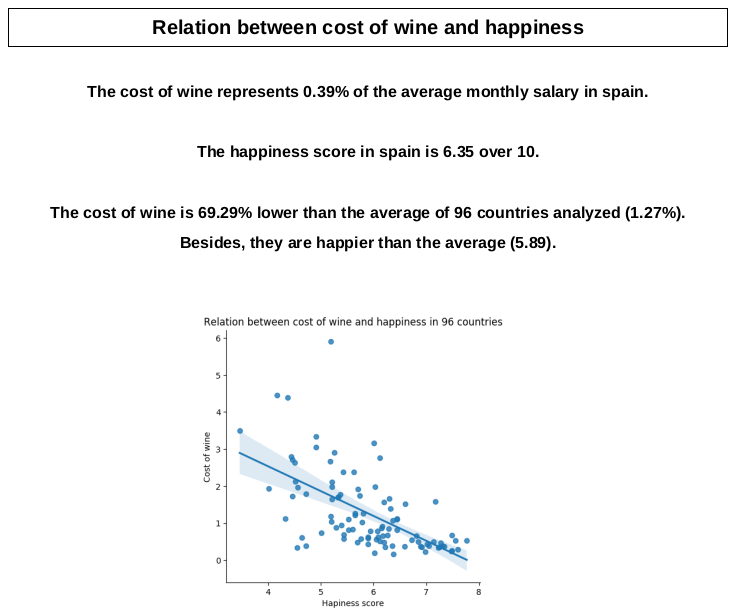
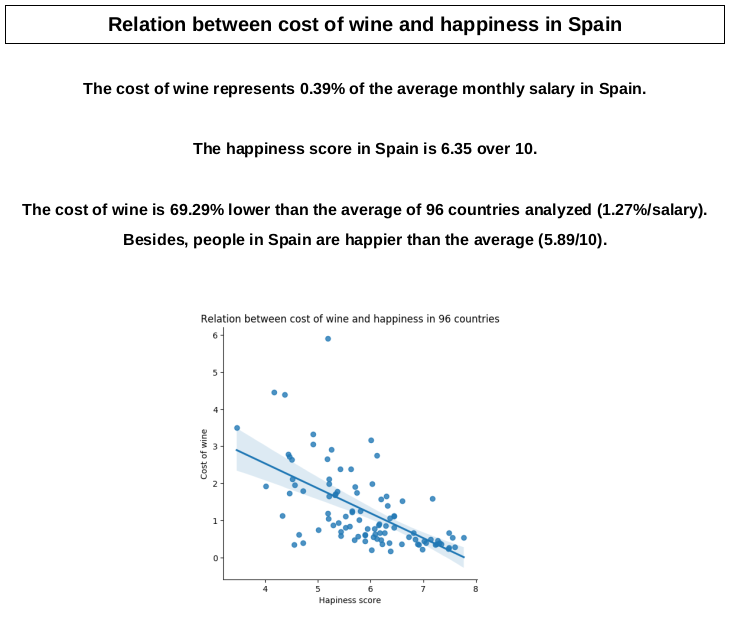
few changes and improvements

diff --git a/src/analysis.py b/src/analysis.py
@@ -8,16 +8,16 @@ def compare(dfinal, country, cost):
     filt = dfinal.loc[country, cost]
     mean = dfinal[[cost]].mean(axis=0)
     mean = round(mean,2)
-    result = f'\nThe cost of {cost} represents {filt[0]}% of the average monthly salary in {country}.\n'
-    result = result + f'\nThe happiness score in {country} is {filt[1]} over 10.\n'
+    result = f'\nThe cost of {cost} represents {filt[0]}% of the average monthly salary in {country.capitalize()}.\n'
+    result = result + f'\nThe happiness score in {country.capitalize()} is {filt[1]} over 10.\n'
     if (filt[0] - mean[0]) > 0 and (filt[1] - mean[1]) > 0:
-        result = result + f'\nThe cost of {cost} is {round(((abs((filt[0] - mean[0])))/mean[0])*100,2)}% higher than the average of 96 countries analyzed ({mean[0]}%).\nEven so, they are happier than the average ({mean[1]}).\n'
+        result = result + f'\nThe cost of {cost} is {round(((abs((filt[0] - mean[0])))/mean[0])*100,2)}% higher than the average of 96 countries analyzed ({mean[0]}%/salary).\nEven so, people in {country.capitalize()} are happier than the average ({mean[1]}/10).\n'
     elif (filt[0] - mean[0]) > 0 and (filt[1] - mean[1]) < 0:
-        result = result + f'\nThe cost of {cost} is {round(((abs((filt[0] - mean[0])))/mean[0])*100,2)}% higher than the average of 96 countries analyzed ({mean[0]}%).\nFurthermore, they are less happy than the average ({mean[1]}).\n'
+        result = result + f'\nThe cost of {cost} is {round(((abs((filt[0] - mean[0])))/mean[0])*100,2)}% higher than the average of 96 countries analyzed ({mean[0]}%/salary).\nFurthermore, people in {country.capitalize()} are less happy than the average ({mean[1]}/10).\n'
     elif (filt[0] - mean[0]) < 0 and (filt[1] - mean[1]) > 0:
-        result = result + f'\nThe cost of {cost} is {round(((abs((filt[0] - mean[0])))/mean[0])*100,2)}% lower than the average of 96 countries analyzed ({mean[0]}%).\nBesides, they are happier than the average ({mean[1]}).\n'
+        result = result + f'\nThe cost of {cost} is {round(((abs((filt[0] - mean[0])))/mean[0])*100,2)}% lower than the average of 96 countries analyzed ({mean[0]}%/salary).\nBesides, people in {country.capitalize()} are happier than the average ({mean[1]}/10).\n'
     elif (filt[0] - mean[0]) < 0 and (filt[1] - mean[1]) < 0:
-        result = result + f'\nThe cost of {cost} is {round(((abs((filt[0] - mean[0])))/mean[0])*100,2)}% lower than the average of 96 countries analyzed ({mean[0]}%).\nInstead, they are less happy than the average ({mean[1]}).\n'
+        result = result + f'\nThe cost of {cost} is {round(((abs((filt[0] - mean[0])))/mean[0])*100,2)}% lower than the average of 96 countries analyzed ({mean[0]}%/salary).\nInstead, people in {country.capitalize()} are less happy than the average ({mean[1]}/10).\n'
     return result
 
 def scatterPlot(dfinal, cost):

diff --git a/src/pdf.py b/src/pdf.py
@@ -4,7 +4,7 @@ def createPDF(data, country, cost):
     pdf = FPDF('P','mm','A4')
     pdf.add_page()
     pdf.set_font('Arial', 'B', 15)
-    pdf.cell(190,10,f'Relation between cost of {cost} and happiness',1,1,'C')
+    pdf.cell(190,10,f'Relation between cost of {cost} and happiness in {country.capitalize()}',1,1,'C')
     pdf.set_font('Helvetica', 'B', 12)
     pdf.multi_cell(0, 8, txt=data, align="C")
     pdf.image('OUTPUT/graph.png', 60, 90, h=80)

diff --git a/README_apoyo.md b/README_apoyo.md
@@ -1,0 +1,37 @@
+# Shark Attacks Analysis
+
+<p align="center">
+    <img src="https://raw.githubusercontent.com/Shurlena/Project.1-SharkAttacksAnalysis/master/images/sharks.jpg" width="600">
+</p>
+
+The goal of this project is to analyze the data collected about attacks arisen around the globe by sharks. The analysis is comprehended between 1800 and 2016, looking for season and year trends as well as the countries most affected.
+
+### INPUT
+We start from Kaggle's csv, which can be find right here: https://www.kaggle.com/teajay/global-shark-attacks
+
+### OUTPUT
+After all data cleaning we have done in Shark_Attack_Analysis.ipynb, a csv copy is made for further analysis.
+
+### scr
+Here we can find a script with functions that we will need to use in Shark_Attack_Analysis.ipynb.
+
+### Shark_Attack_Analysis.ipynb
+This is the main of this project. All data cleaning and analysis is made in this notebook. Steps followed:
+
+*STEP 1: Data Inspection*
+
+Check what kind of data we have available, cleaning and analysis complexity, duplicated data, percentage of null values and data reliability.
+
+*STEP 2: Data cleaning*
+
+Once we know which data we want to keep, we proceed to make the hole data cleaning process to output a tidy csv, which will be used for further analysis.
+
+*STEP 3: Analysis and Data Visualization*
+
+The conclusions we have been able to get are:
+
+- The highest number of attacks are registered between 2001 and 2016. This is probably due to the increasing documentation work over the years.
+- Most attacks occur in summer. Countries above Equator line suffer more shark attacks in july, august and september, while countries underneath Equator line have most cases in december and january.
+- USA and Australia are the countries where higher number of attacks occur. The main reason could be that both countries have the largest population and surfing culture.
+- In USA, the most affected are surfers, injured mostly in the legs.
+- In Australia, the most affected are bathers, injured mostly in the legs as well. However, there are 17% of chances that the attack ends in death, while in USA this percentage is just 7%.

diff --git a/README.md b/README.md
@@ -1,6 +1,10 @@
 # *Does costs of living affect our happiness?*
 
-El objetivo de este proyecto es crear un pipeline que muestre la relación entre el coste de vida y el índice de felicidad por país.
+<p align="center">
+    <img src="https://raw.githubusercontent.com/Shurlena/Project.2-Pipeline_CostsOfLivingImpact/master/images/project.jpg">
+</p>
+
+The goal of this project is create a pipeline that shows the relationship between a chosen cost of living and the happiness index of elected country. The final result is presented in a pdf file where we can check the cost impact on the average salary, as well as the happiness score reported in given country. Additionally, the cost impact is compared to the rest of the countries analyzed and we can find out if there is any relationship between both parameters from the scatter plot displayed.
 
 ### EXTRACCIÓN DE DATOS
 
